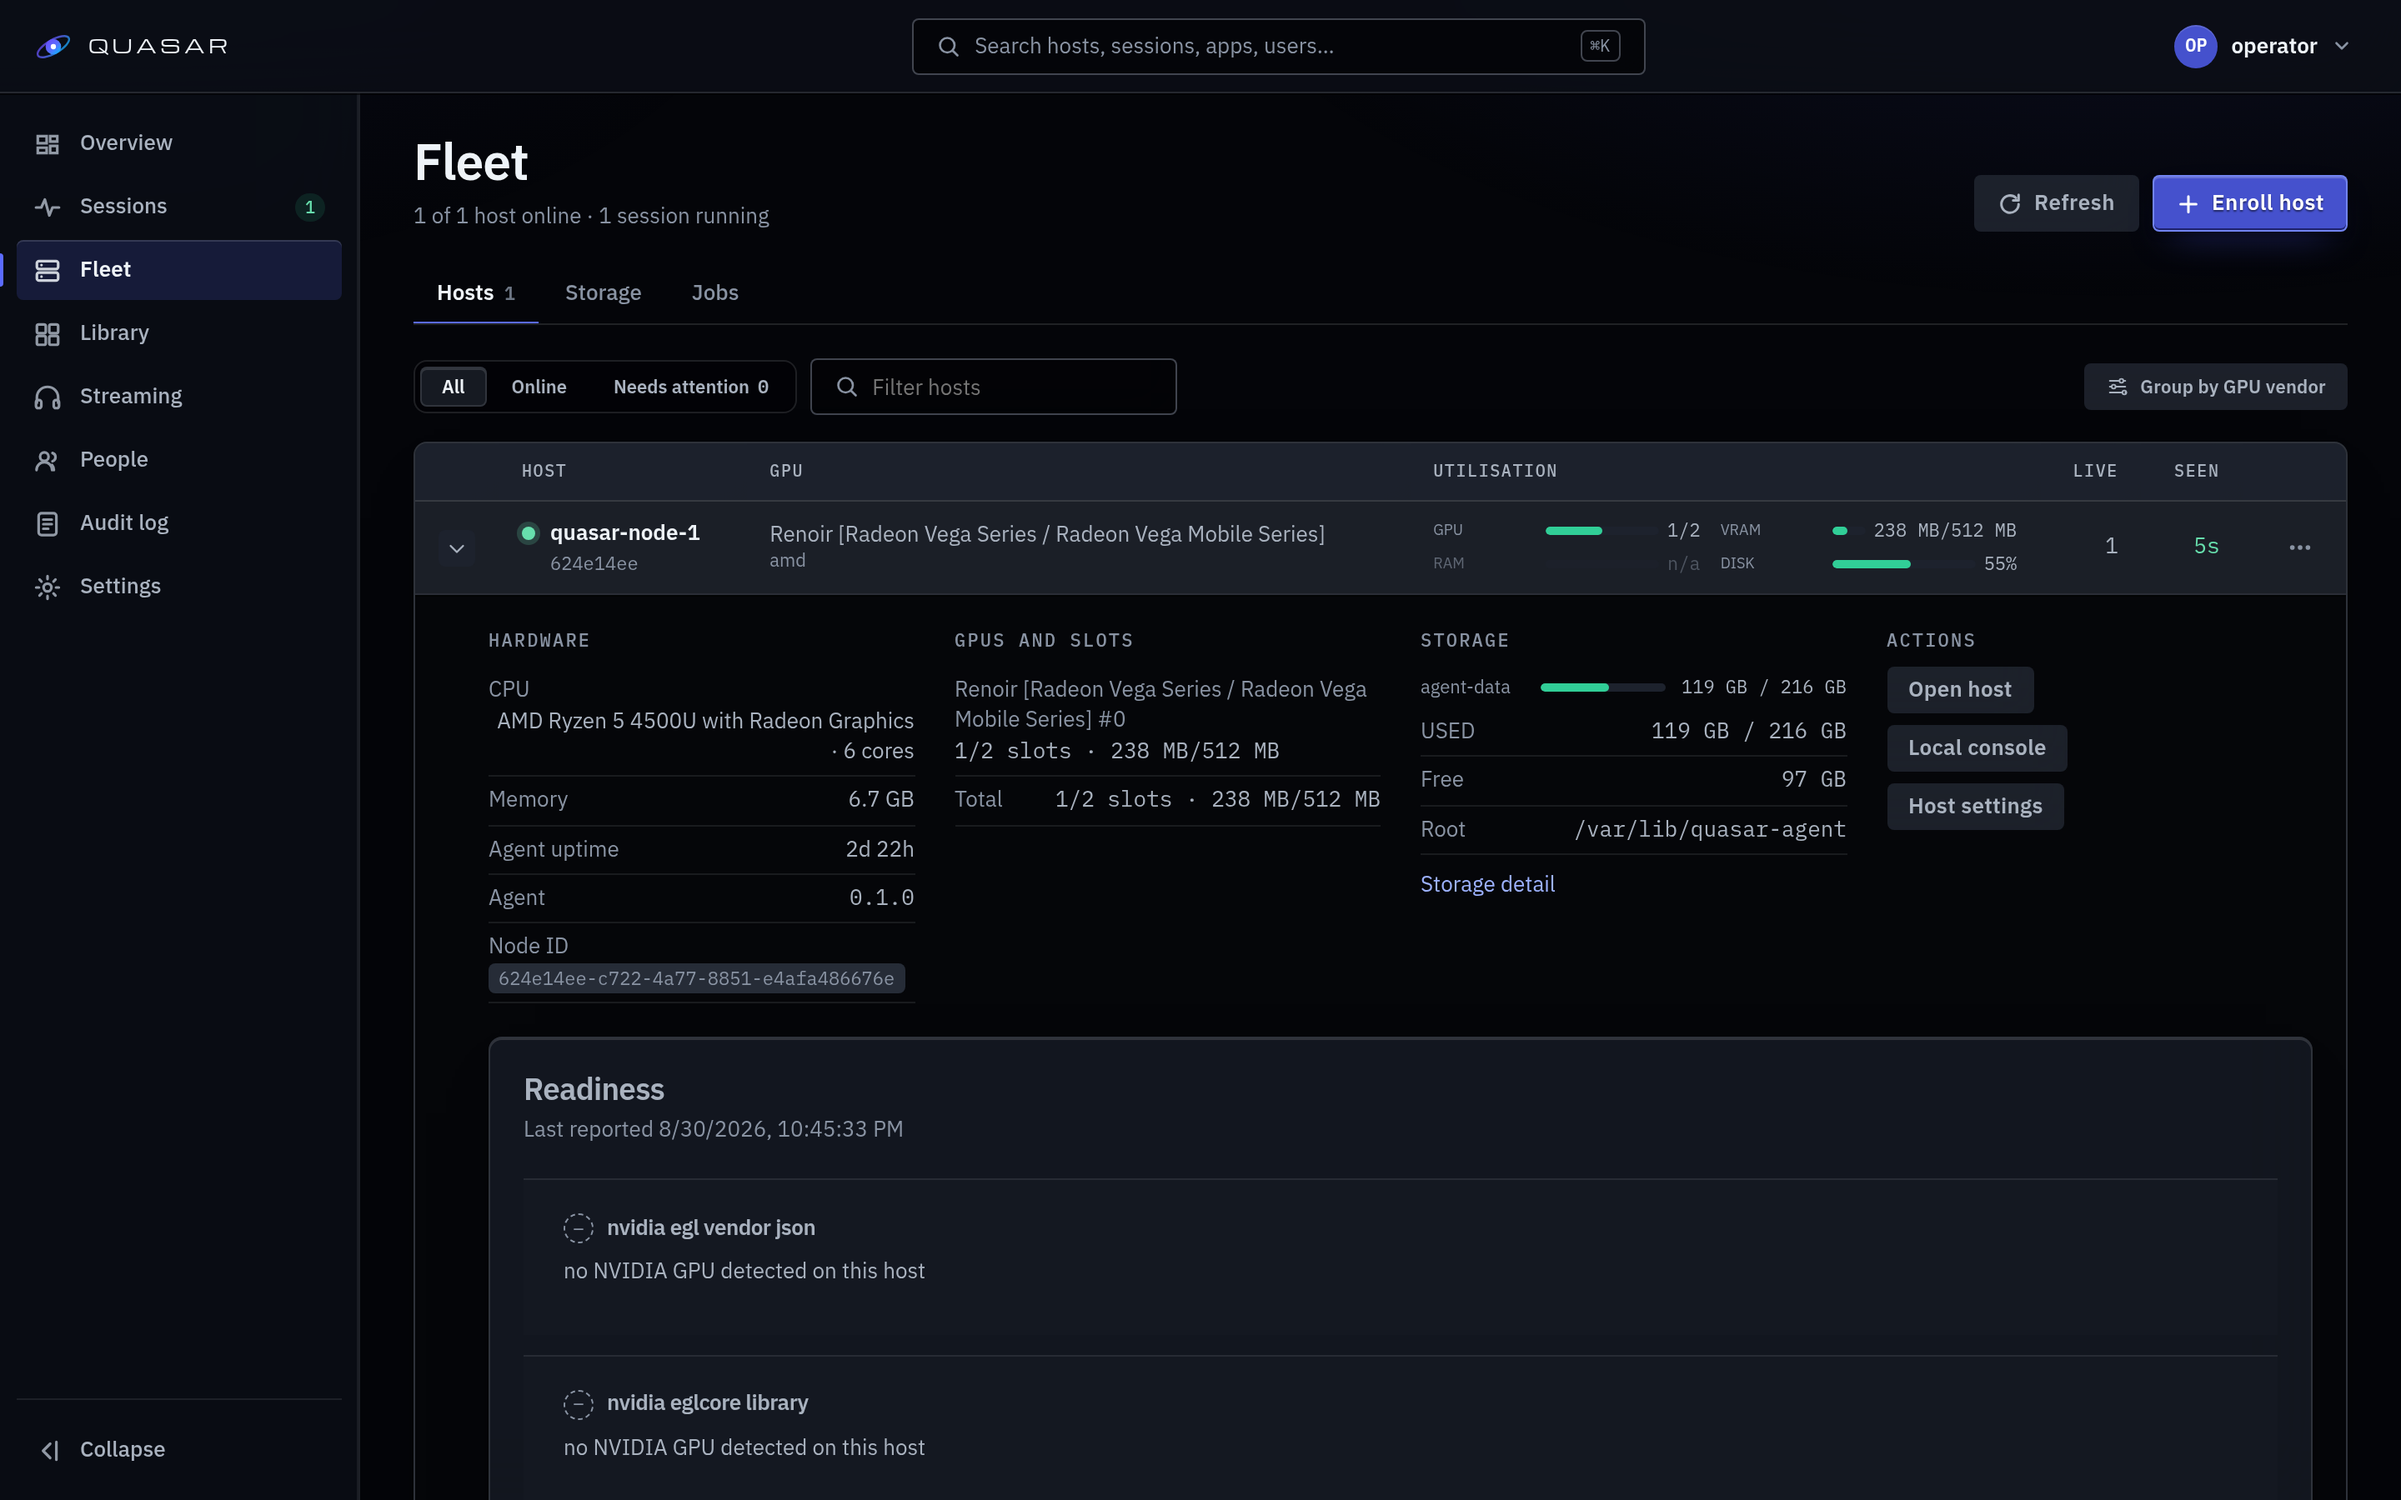
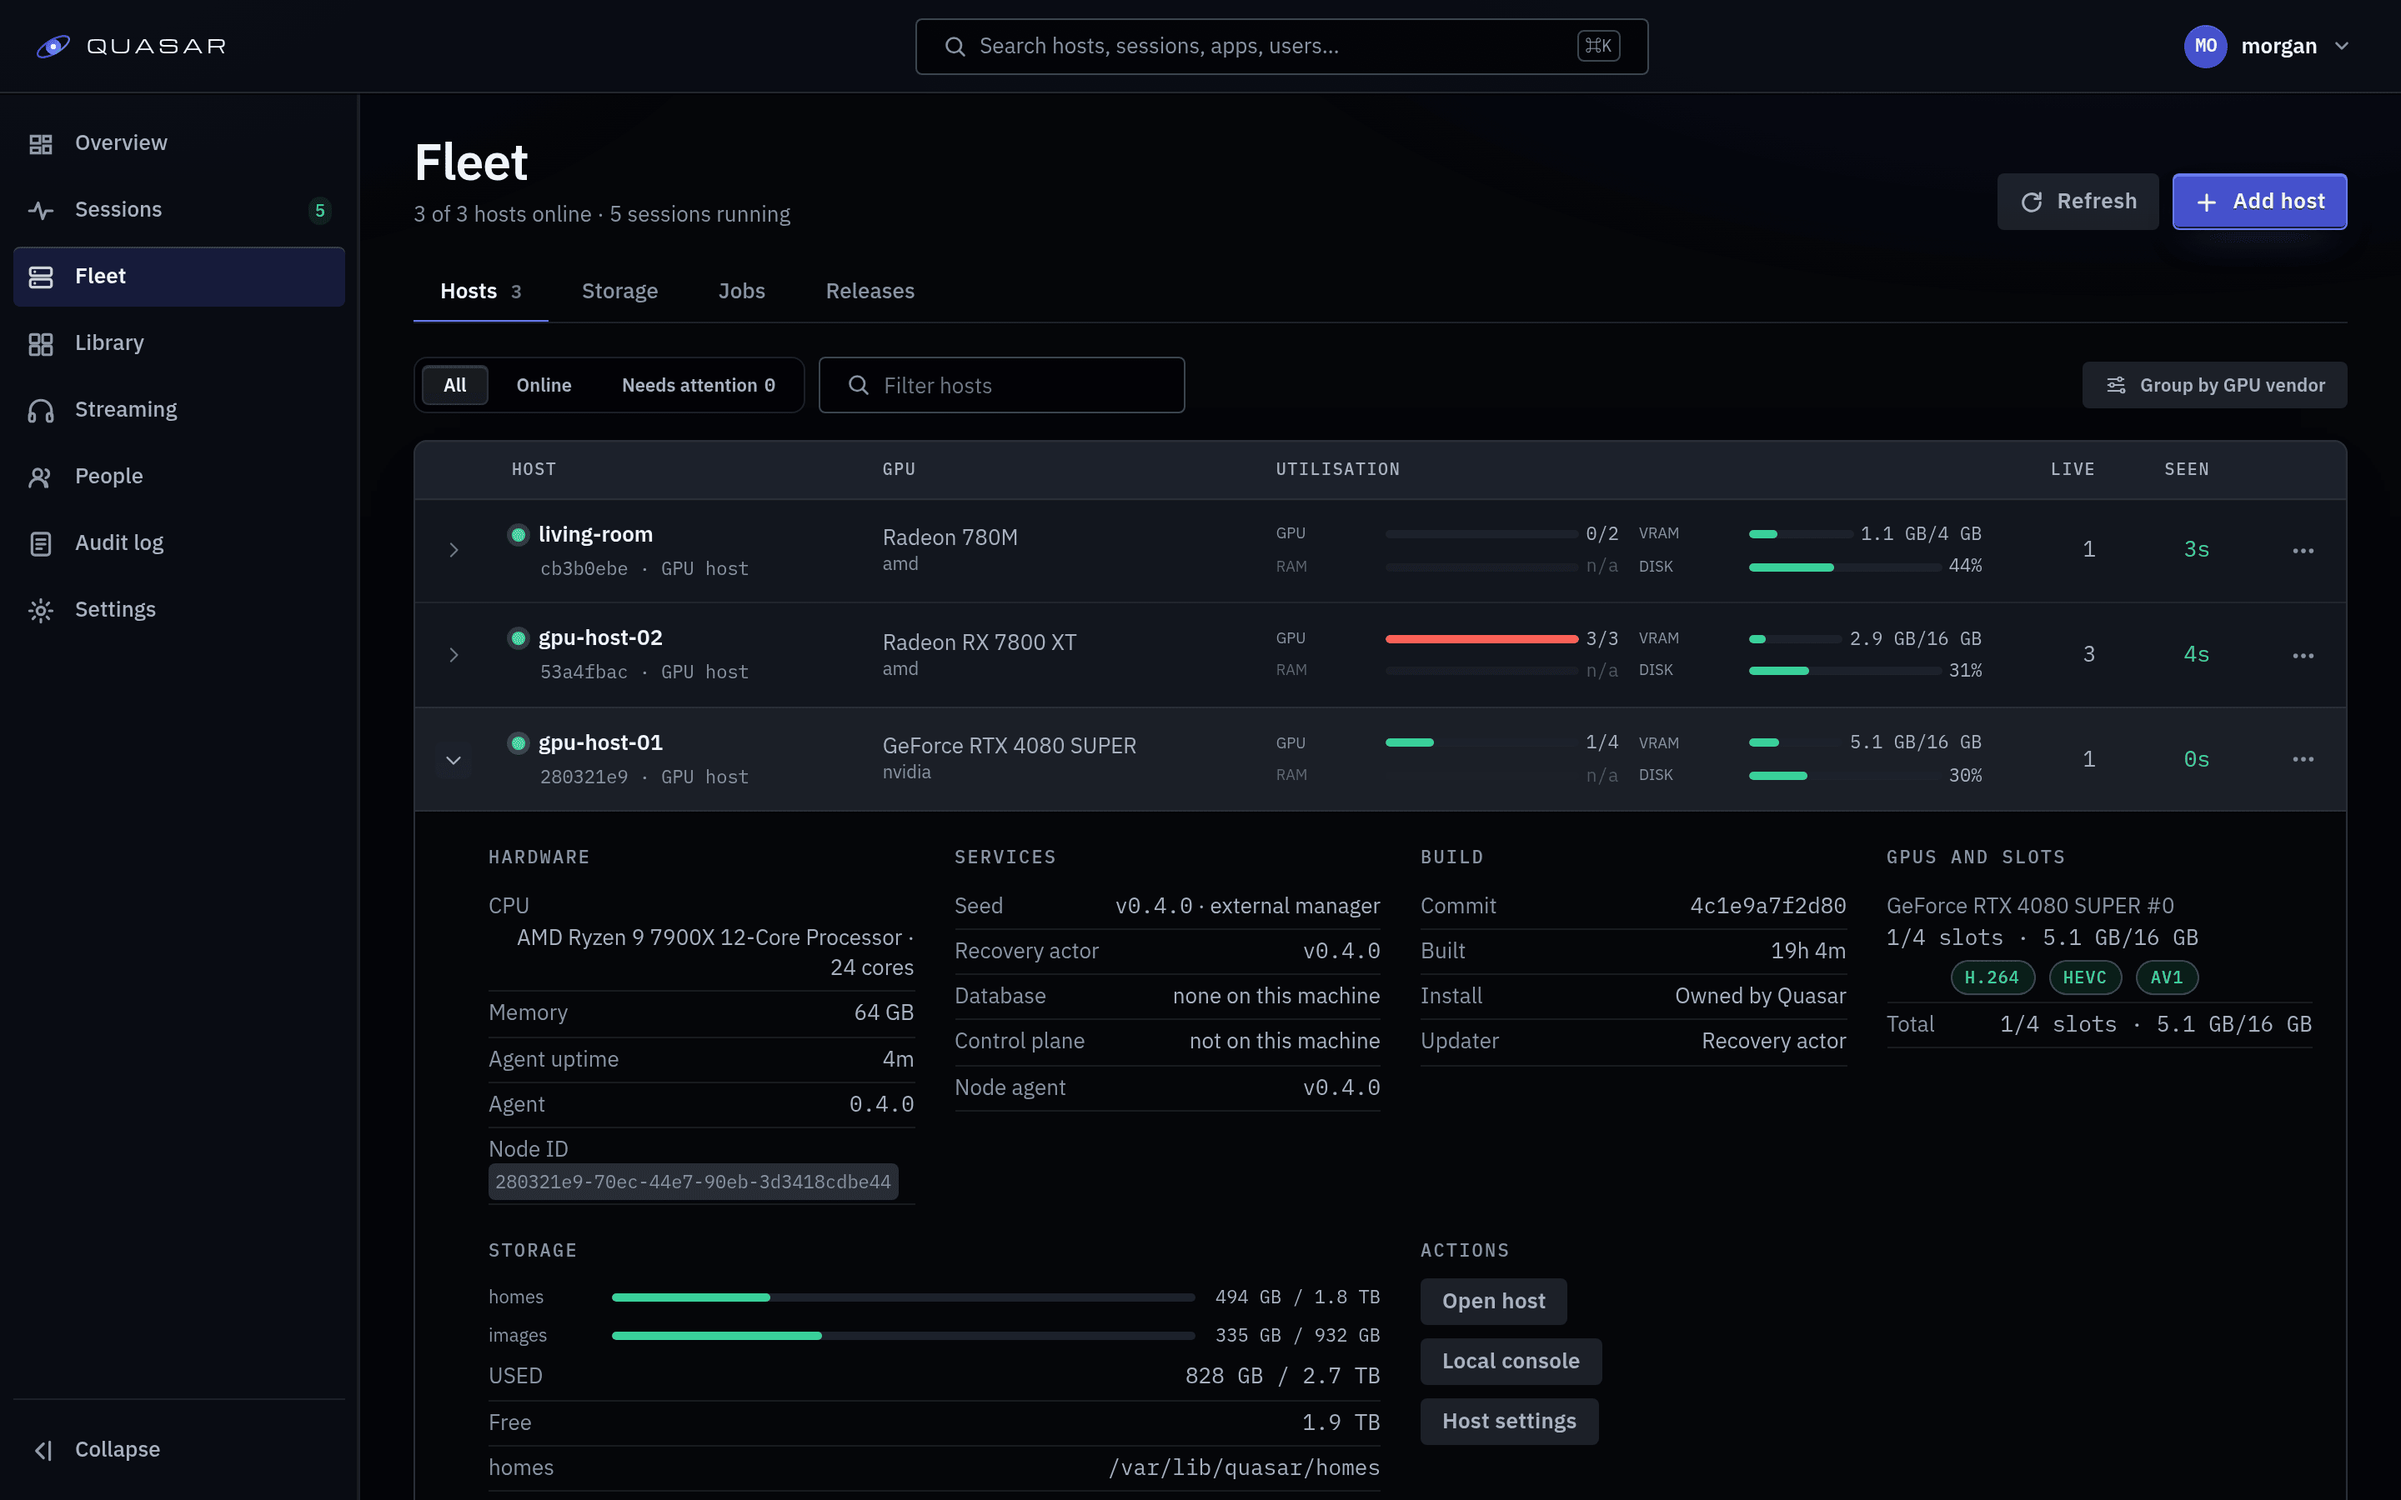
docs(site): retake the screenshots on a demo stack with dummy data
Every screenshot but the Steam sources one, retaken from a local control plane with
scripted node agents, fictional hosts and example.com accounts, and the demo library
art. New: the quick start's engine step, the Local console page, a host's readiness
card, and the in-session performance stats. The session shots are a real WebRTC
session in Chrome, streaming a pan across a game's hero art. SCREENSHOTS.md records
how they were taken and what is still worth adding.

diff --git a/site/SCREENSHOTS.md b/site/SCREENSHOTS.md
@@ -1,31 +1,30 @@
 # Screenshots
 
-Every `<Shot>` in the site now carries a real image. This file records where
-they came from, how to retake them, and what is still worth adding.
+Every `<Shot>` in the site carries a real image. This file records where they came
+from, how to retake them, and what is still worth adding.
 
 ## What is in the site
 
 | Page | Asset | What it shows |
 | --- | --- | --- |
-| `index.mdx` (landing) | `library-home.png` | The library home, hero rail and cover tiles. |
+| `index.mdx` (landing) | `library-home.png` | The library home: the rail of recent and newly added apps, then the tiles. |
+| `start/quickstart.mdx` | `quickstart-engine.png` | The quick start's engine step for Fedora, with the four engine profile badges. |
 | `install/first-run.mdx` | `setup-claim.png` | Step 1 of the wizard on an unclaimed instance. |
-| `install/first-run.mdx` | `setup-hosts.png` | Step 3, the host and GPU check, with a pass and a failure. |
+| `install/first-run.mdx` | `setup-hosts.png` | Step 3, the host check, cropped to a host whose input checks fail and block launches. |
 | `playing/library.mdx` | `library.png` | The full library, grouped by source. |
-| `playing/in-session.mdx` | `session-drawer.png` | A live session with the menu open on Controller and input. |
+| `playing/in-session.mdx` | `session-drawer.png` | A live session, menu open on Controller and input, microphone on with its indicator. |
+| `playing/in-session.mdx` | `session-stats.png` | The Performance stats pane of a live session. |
 | `admin/overview.mdx` | `admin-overview.png` | Live sessions, needs attention, fleet capacity, recent activity. |
-| `admin/hosts.mdx` | `admin-hosts.png` | The fleet host list with the row expanded. |
+| `admin/hosts.mdx` | `admin-hosts.png` | The fleet host list, one host expanded. |
+| `admin/console.mdx` | `admin-console.png` | The Local console page of a host with console mode on and PipeWire audio. |
+| `troubleshooting/readiness.mdx` | `host-readiness.png` | Part of a rootless Docker host's readiness card: storage, network, engine and console checks. |
 | `admin/sessions.mdx` | `admin-sessions.png` | Live and recent sessions. |
 | `admin/images.mdx` | `admin-images.png` | The image catalog and per-host rollout state. |
 | `admin/apps.mdx` | `admin-apps.png` | The app catalog. |
-| `admin/steam.mdx` | `admin-sources.png` | The Steam source and the artwork provider. |
+| `admin/steam.mdx` | `admin-sources.png` | The Steam source and the artwork provider. Not retaken in the 2026-09-30 refresh; see below. |
 | `admin/profiles.mdx` | `admin-profiles.png` | Launch profiles and their ordered rungs. |
 | `admin/users.mdx` | `admin-invites.png` | Registration mode and outstanding invites. |
-| `admin/releases.mdx` | `admin-releases.png` | The Releases tab: installed identity, the channel controls, and an instance with nothing available. |
-
-`admin-releases.png` should be — taken 2026-09-06 on a registry install running v0.2.0 with the real release notes.
-exists. The current shot is an instance that is already current, so the Available
-section reads as empty and neither the Targets table nor Apply history is in
-frame; the page is more useful when it has a release to show.
+| `admin/releases.mdx` | `admin-releases.png` | The Releases tab on the edge channel, on a control plane built from source. |
 
 `start/how-it-works.mdx` is not a screenshot. It renders
 `src/components/ArchDiagram.astro`, an enlarged version of the landing page's
@@ -34,76 +33,59 @@ and follows the theme toggle.
 
 ## Capture settings
 
-- Chrome for Testing, 1440x900 viewport, 2x device pixel ratio, dark theme,
-  reduced motion.
+- Chrome, 1440x900 viewport, 2x device pixel ratio, dark theme, reduced motion.
 - Cropped to the browser content area. No OS chrome, no browser chrome.
-- Viewport-cropped, except `setup-hosts.png`, where the wizard card is taller
-  than the viewport and a crop would cut the failing check off.
-- Seeded demo data throughout: invented game titles with generated cover art,
-  demo accounts (`jordan`, `sam`, `riley`), and seeded invites. No real user
-  names or email addresses appear.
-- Invite codes in `admin-invites.png` are the 8-character prefixes the UI
-  itself shows. The full code is never retrievable after minting, so there is
-  nothing to redact.
+- Viewport-cropped, except `setup-hosts.png`, cropped from the full wizard page
+  to the failing host, and `quickstart-engine.png`, the quick start element alone.
+- Quantized with `pngquant` (quality 80 to 95; 55 to 90 for the three shots full
+  of game art) to keep the repository small. Astro converts them at build time.
+- Dummy data throughout: fictional hosts (`gpu-host-01`, `gpu-host-02`,
+  `living-room`, `den-pc`), demo accounts (`morgan`, `jordan`, `sam`, `riley`,
+  `casey`) with `example.com` addresses, and seeded invites. No real host, address
+  or person appears. Invite codes are the 8-character prefixes the UI itself
+  shows; the full code is never retrievable after minting.
+- Library art is SteamGridDB community art for real games, credited per image in
+  `src/assets/shots/demo-art/CREDITS.md`, where the files themselves are kept.
+  Nothing from Nintendo. The Desktop app keeps the default gradient tile.
 
-## How they were taken
+## How they were taken (2026-09-30)
 
-Against a live single-host deployment, not a mock. The scripts that drove it
-are throwaway and are not committed; the shape of the run was:
+Against a local demo stack, not a deployment. The scripts that drove it were
+throwaway and are not committed; the shape of the run was:
 
-1. Seed a demo catalog through the admin API, uploading generated 2:3 cover art
-   to `POST /v1/admin/apps/{id}/artwork/upload?crop=tile`.
-2. Register demo users, mint a few invites, and run short sessions under
-   different accounts so the sessions list and the home rail have real history.
-3. Launch a KDE Desktop session and drive it with Chrome for Testing so the
-   in-session shots show a genuinely decoding stream.
-4. Photograph the admin surfaces while that session is live.
-
-The first-run wizard needs an instance nobody has claimed, so those two shots
-came from a separate throwaway stack on its own compose project, ports and
-database, running the same control-plane image with a node agent pointed at it.
+1. `make up` for a local control plane and Postgres (the agentless local
+   stack), with the web client built into `web/dist`.
+2. Three scripted node agents, written for the run, registered over the real
+   agent WebSocket with enrollment tokens. Each reported fictional hardware,
+   engine facts (Podman rootless, Docker rootful, Docker rootless), a readiness
+   card and, for `living-room`, console capabilities with PipeWire sinks. The
+   readiness wording follows the agent's own strings.
+3. Seeded through the admin API: settings, 14 games plus a desktop, artwork
+   uploaded with `POST /v1/admin/apps/{id}/artwork/upload?crop=tile|hero`, four
+   users registered with invites, three more invites, the image catalog synced,
+   console mode set on `living-room`.
+4. Sessions launched and stopped through the API for history, and a few left
+   running for the admin pages.
+5. The in-session shots come from a real session launched from the library in
+   Chrome. The scripted agent answered WebRTC signaling and streamed a looping
+   H.264 pan across the game's hero art over a real peer connection, with an
+   audio connection that received the browser's (fake) microphone. The picture is
+   that art, not a game running.
+6. The first-run shots came from a second, unclaimed control plane on its own
+   compose project and database, with two scripted agents against it.
+7. The quick start shot is the built documentation site itself.
 
 ## Still worth doing
 
-- **A second host.** `admin-hosts.png` shows a single-host fleet, which leaves
-  the page looking emptier than it does in a real deployment. Two hosts, ideally
-  one NVIDIA and one AMD, would make the point the page is making.
-- **A populated Steam scan.** `admin-sources.png` shows the Steam source with
-  its scan controls but nothing discovered, because discovery needs a Steam
-  container that has been signed into and has games installed.
-- **Light mode.** Every shot is dark. The site defaults to dark and the theme
-  toggle works, so light variants can wait.
+- **A populated Steam scan, and the Sources tab retaken.** Discovery needs a Steam
+  container that has been signed into and has games installed, and the scripted
+  agents cannot report Steam preparation, so `admin-sources.png` is still the
+  earlier capture.
+- **A release to show.** `admin-releases.png` is a control plane built from
+  source, which is never offered a release, so the Available section is empty
+  and the control-plane target reads not ready. An owned install with a release
+  newer than it would show the page as an operator sees it.
+- **Light mode.** Every shot is dark.
 - Session detail with the metrics time series, on `admin/sessions.mdx`.
 - A diagnostic bundle verdict, on `operations/diagnostics.mdx`.
 - The account Stream quality page, on `playing/storage.mdx`.
-- The in-session performance overlay, on `troubleshooting/quality.mdx`.
-
-## Open question: the prose does not match the navigation
-
-The screenshots are of the current web UI, whose admin navigation is grouped:
-Overview, Sessions, Fleet, Library, Streaming, People, Audit log, Settings.
-The prose across the site still refers to the older flat navigation, so a
-reader comparing the two will find that several of these paths no longer exist
-as written:
-
-| Prose says | The UI now has |
-| --- | --- |
-| Admin, Hosts | Admin, Fleet, Hosts |
-| Admin, Storage | Admin, Fleet, Storage |
-| Admin, Jobs | Admin, Fleet, Jobs |
-| Admin, Apps | Admin, Library, Apps |
-| Admin, Images | Admin, Library, Images |
-| Admin, Steam | Admin, Library, Sources |
-| Admin, Users | Admin, People, Users |
-| Admin, Invites | Admin, People, Invites |
-| Admin, Audit log | Admin, Audit log (unchanged) |
-| Admin, Sessions | Admin, Sessions (unchanged) |
-| Admin, Settings | Admin, Settings (unchanged) |
-
-Affected files: `admin/{apps,hosts,images,sessions,steam,users,jobs}.mdx`,
-`troubleshooting/{launching,connecting,quality,av}.mdx`,
-`operations/{diagnostics,uninstall,upgrading}.mdx`.
-
-This was left alone deliberately. Renaming navigation throughout the site is a
-copy decision rather than a screenshot one, and it depends on whether the site
-should describe the UI on `feat/ui-v3` before that branch reaches `main`.
